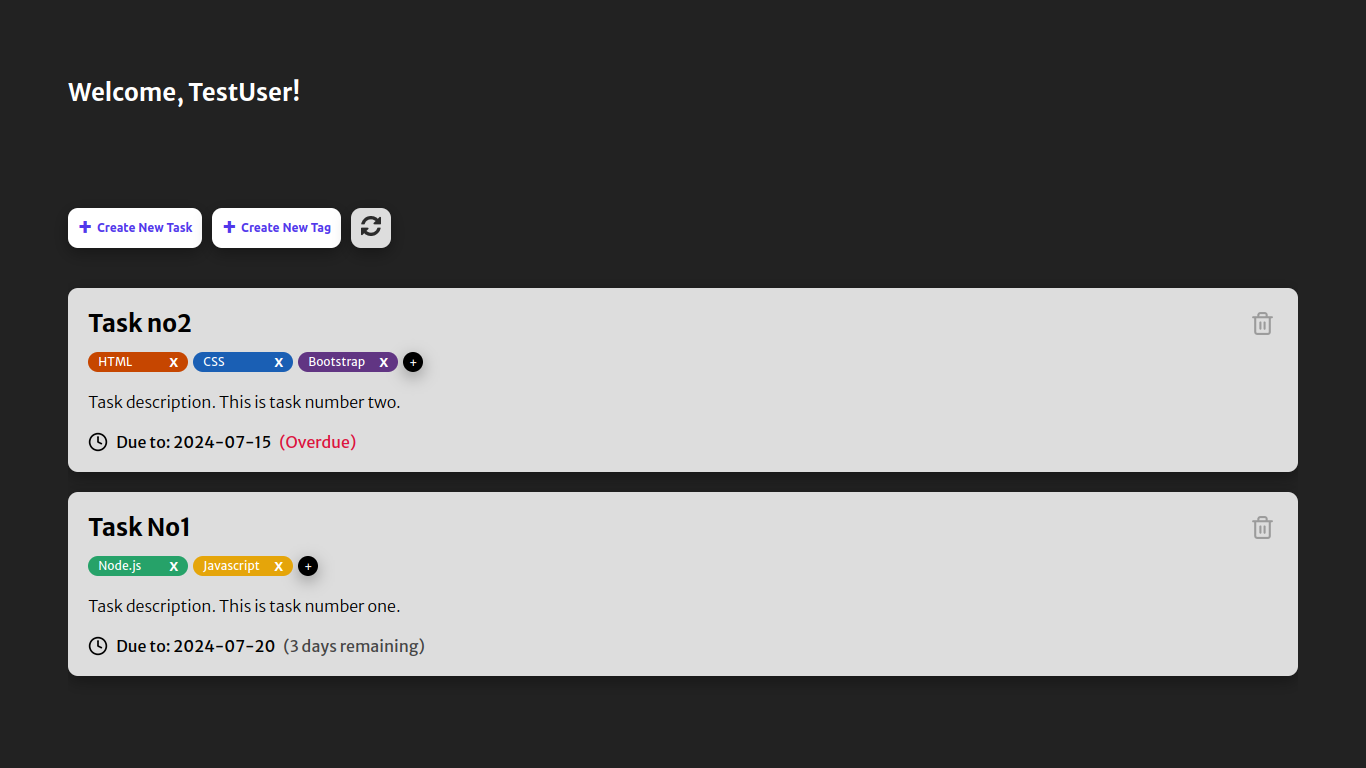
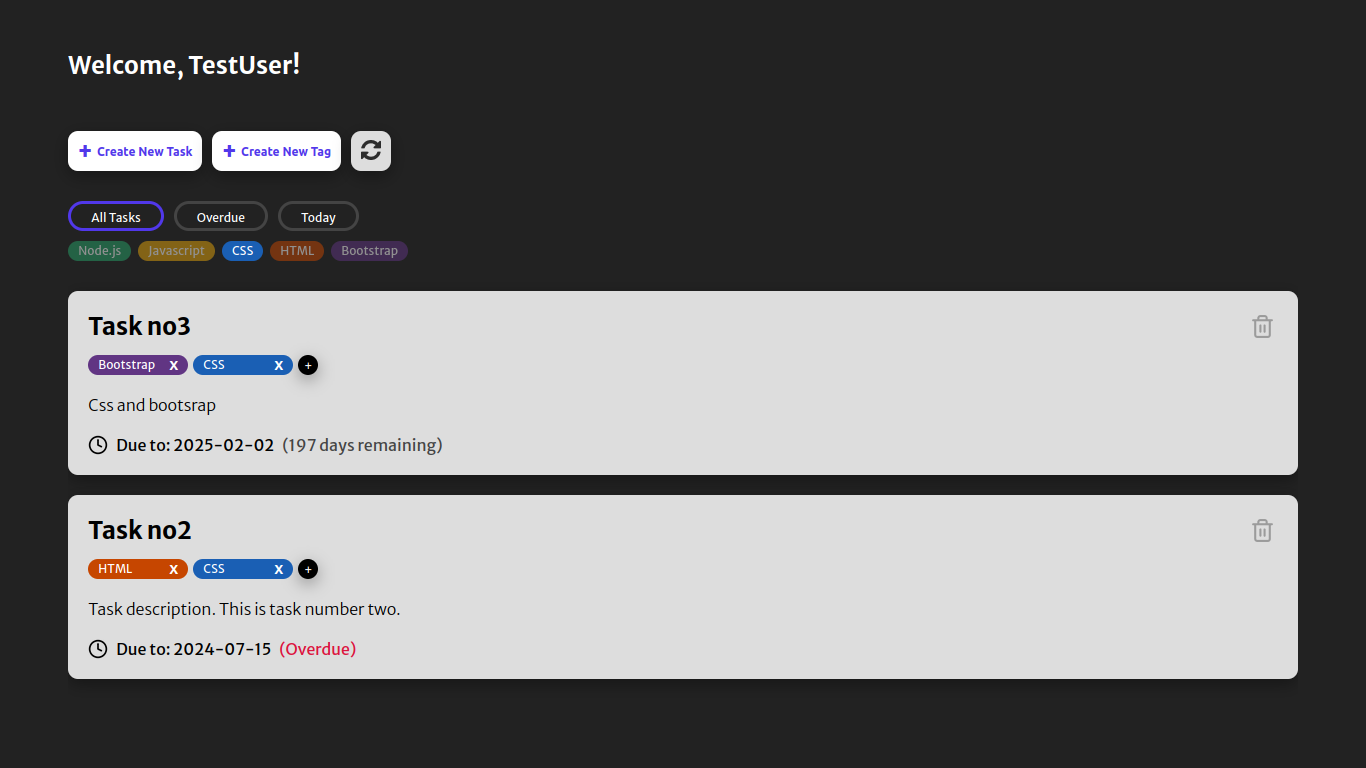
tag sort

Changed region(s): [[0.0615, 0.375, 0.9531, 0.9062], [0.0307, 0.0625, 0.3075, 0.3438]]

diff --git a/page.js b/page.js
@@ -8,31 +8,23 @@ const register = document.querySelector('.register')
 
 switchLogin.addEventListener('click', () => {
     if(!switchLogin.classList.contains('auth-focus')){
-        switchLogin.classList.add('auth-focus')
-        switchLogin.classList.remove('auth-no-focus')
-        switchRegister.classList.add('auth-no-focus')
-        switchRegister.classList.remove('auth-focus')
+        changeActiveStyle('auth-focus', switchLogin, switchRegister)
+        changeActiveStyle('auth-no-focus', switchRegister, switchLogin)
+        changeActiveStyle('shown-auth', login, register)
+        changeActiveStyle('hidden-auth', register, login)
         switchBg.classList.remove('focus-bg-right')
         switchBg.classList.add('focus-bg-left')
-        login.classList.add('shown-auth')
-        login.classList.remove('hidden-auth')
-        register.classList.remove('shown-auth')
-        register.classList.add('hidden-auth')
     }
 })
 
 switchRegister.addEventListener('click', () => {
     if(!switchRegister.classList.contains('auth-focus')){
-        switchRegister.classList.add('auth-focus')
-        switchRegister.classList.remove('auth-no-focus')
-        switchLogin.classList.remove('auth-focus')
-        switchLogin.classList.add('auth-no-focus')
+        changeActiveStyle('auth-focus', switchRegister, switchLogin)
+        changeActiveStyle('auth-no-focus', switchLogin, switchRegister)
+        changeActiveStyle('shown-auth', register, login)
+        changeActiveStyle('hidden-auth', login, register)
         switchBg.classList.remove('focus-bg-left')
         switchBg.classList.add('focus-bg-right')
-        register.classList.add('shown-auth')
-        register.classList.remove('hidden-auth')
-        login.classList.remove('shown-auth')
-        login.classList.add('hidden-auth')
     }
 })
 
@@ -53,7 +45,6 @@ const newTagContainer = document.querySelector('.new-tag')
 
 document.querySelector('.cancel-new-tag').addEventListener('click', () => {
     newTagContainer.classList.add('hidden')
-    console.log('hi')
 })
 
 // ! SORT BY TIME
@@ -65,24 +56,36 @@ const todayBtn = document.querySelector('.today-btn');
 const showAllTasks = () => {
     const tasks = document.querySelectorAll('.task')
     for (let i = 0; i < tasks.length; i++) {
+        tasks[i].classList.remove('hidden-bs')
+    }
+}
+
+const showAllTasksHBT = () => {
+    const tasks = document.querySelectorAll('.task')
+    for (let i = 0; i < tasks.length; i++) {
         tasks[i].classList.remove('hidden')
     }
 }
 
 document.querySelector('.update-tasks').addEventListener('click', () => {
-    alltasksBtn.classList.add('time-sort-active')
-    todayBtn.classList.remove('time-sort-active')
-    overdueBtn.classList.remove('time-sort-active')
+    changeActiveStyle('time-sort-active', alltasksBtn, todayBtn, overdueBtn)
     showAllTasks()
+    showAllTasksHBT()
 })
+
+const changeActiveStyle = (classname, add, ...remove) => {
+    remove.forEach(item => {
+        item.classList.remove(classname)
+    })
+    add.classList.add(classname)
+}
 
 alltasksBtn.addEventListener('click', () => {
     if(!alltasksBtn.classList.contains("time-sort-active")){
-        alltasksBtn.classList.add('time-sort-active')
-        todayBtn.classList.remove('time-sort-active')
-        overdueBtn.classList.remove('time-sort-active')
-
+        changeActiveStyle('time-sort-active', alltasksBtn, todayBtn, overdueBtn)
+        if(document.querySelector('.usertag-active')) document.querySelector('.usertag-active').classList.remove('usertag-active')
         showAllTasks()
+        showAllTasksHBT()
     }
 })
 
@@ -91,15 +94,12 @@ overdueBtn.addEventListener('click', () => {
     const dues = document.querySelectorAll('.due-container span')
 
     if(!overdueBtn.classList.contains("time-sort-active")){
-        overdueBtn.classList.add('time-sort-active')
-        todayBtn.classList.remove('time-sort-active')
-        alltasksBtn.classList.remove('time-sort-active')
-
+        changeActiveStyle('time-sort-active', overdueBtn, todayBtn, alltasksBtn)
         showAllTasks();
 
         for (let i = 0; i < dues.length; i++) {
             if(!dues[i].classList.contains("overdue")){
-                tasks[i].classList.add('hidden')
+                tasks[i].classList.add('hidden-bs')
             }
             
         }
@@ -109,17 +109,14 @@ overdueBtn.addEventListener('click', () => {
 todayBtn.addEventListener('click', () => {
     const tasks = document.querySelectorAll('.task')
     const dues = document.querySelectorAll('.due-container span')
-
-    showAllTasks();
-
+    
     if(!todayBtn.classList.contains("time-sort-active")){
-        todayBtn.classList.add('time-sort-active')
-        overdueBtn.classList.remove('time-sort-active')
-        alltasksBtn.classList.remove('time-sort-active')
+        changeActiveStyle('time-sort-active', todayBtn, overdueBtn, alltasksBtn)
+        showAllTasks();
 
         for (let i = 0; i < dues.length; i++) {
             if(!dues[i].classList.contains("today")){
-                tasks[i].classList.add('hidden')
+                tasks[i].classList.add('hidden-bs')
             }
             
         }

diff --git a/app.js b/app.js
@@ -132,11 +132,26 @@ const createSortTags = (tags) => {
         tagContainer.appendChild(userTagItem)
 
         userTagItem.addEventListener('click', () => { 
-            const uiTasks = document.querySelectorAll('.task:not(.hidden)')
 
-            // ! TAG SORT SYSTEM
+            if(!userTagItem.classList.contains('usertag-active')){
+                console.log(`Clicked on tag ${tag.tagName}`)
+                const uiTasks = document.querySelectorAll('.task:not(.hidden-bs)')
+                showAllTasksHBT()
+        
+                uiTasks.forEach(task => {
+                    thisTaskTags = task.getAttribute('data-tags')
+                    if(!thisTaskTags.includes(tag.tagName)){
+                        task.classList.add('hidden')
+                        changeActiveStyle('usertag-active', userTagItem, ...document.querySelectorAll('.user-tag'))
+                        userTagItem.classList.add('usertag-active')
+                    }
+                })
+            }else{
+                showAllTasksHBT();
+                userTagItem.classList.remove('usertag-active')
+            }
 
-            console.log(uiTasks)
+            
         })
     })
 }
@@ -145,8 +160,9 @@ const createSortTags = (tags) => {
 const displayTasks = (name, due, description, tags, id) => {
     const task = document.createElement('div')
     task.classList.add('task')
+    task.setAttribute('data-tags', tags.map(tag => tag.tagName))
     document.querySelector('.tasks-container').appendChild(task)
-
+    
     const taskHeader = document.createElement('div')
     taskHeader.classList.add('task-header')
 
@@ -240,7 +256,8 @@ const displayTasks = (name, due, description, tags, id) => {
         allTagsList.classList.add('hidden')
         // }
     })
-    addTagBtn.appendChild(allTagsList)    
+    task.appendChild(allTagsList)    // This thing must be styled properly
+    
     // description
     const descriptionItem = document.createElement('div')
     descriptionItem.textContent = description

diff --git a/style.css b/style.css
@@ -34,7 +34,6 @@ body{
     background-color: var(--main-bg);
     display: flex;
     justify-content: center;
-    align-items: center;
     height: 100vh;
     font-family: var(--font);
     overflow: hidden;
@@ -52,6 +51,7 @@ body{
     align-items: center;
     padding-top: 25px;
     box-shadow: var(--shadow);
+    align-self: center;
 }
 
 @media (max-width: 700px) {
@@ -59,6 +59,7 @@ body{
         height: 100vh;
         width: 100vw;
         padding-top: 100px;
+        margin-top: -50px;
     }
 }
 
@@ -197,7 +198,8 @@ body{
 .username{
     color: white;
     font-size: 24px;
-    margin-bottom: 100px;
+    margin-bottom: 50px;
+    margin-top: 50px;
 }
 
 button{
@@ -369,11 +371,20 @@ button{
     padding: 2px 10px;
     border-radius: 10px;
     cursor: pointer;
+    opacity: .5;
     /* margin-top: 5px; */
 }
 
 .user-tag-hidden{
     opacity: .5;
+}
+
+.hidden-bs{
+    display: none;
+}
+
+.usertag-active{
+    opacity: 1;
 }
 
 /* ! TASKS CONTAINER */
@@ -497,11 +508,10 @@ button{
     min-width: 160px;
     height: 150px;
     overflow: scroll;
-    display: inline-block;
-    border-radius: 10px;
     padding: 5px 15px 15px 15px;
+    border-radius: 10px;
     margin-left: 10px;
-    position: absolute;
+    display: inline-block;
 }
 
 .all-tags-list div {
@@ -509,7 +519,7 @@ button{
     display: flex;
     justify-content: space-between;
     margin: 10px 0px 10px 0px;
-}
+}   
 
 .all-tags-list button {
     box-shadow: none;
